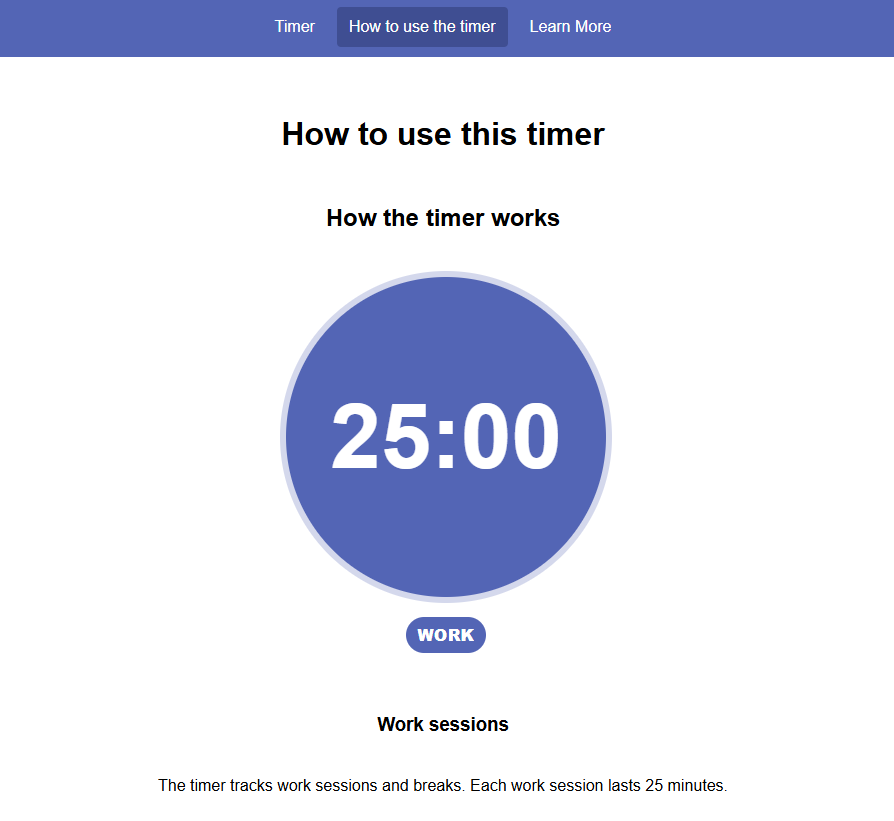
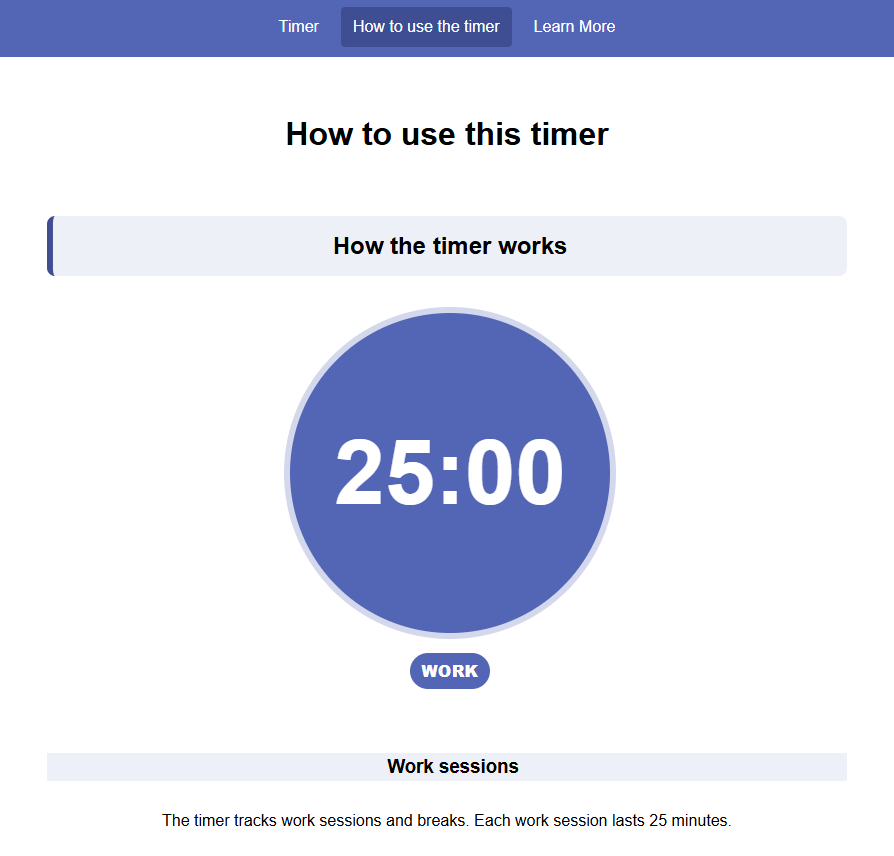
Updated the <p> elements on the howto pages so that their width matches the header bars

diff --git a/assets/css/style.css b/assets/css/style.css
@@ -58,6 +58,12 @@ body {
     font-weight: 600;
 }
 
+.howto p {
+    width: 100%;
+    max-width: 800px;
+    margin: 0.75rem auto;
+}
+
 
 /* Limit the width of the intro text on the index page */
 .intro-text {
